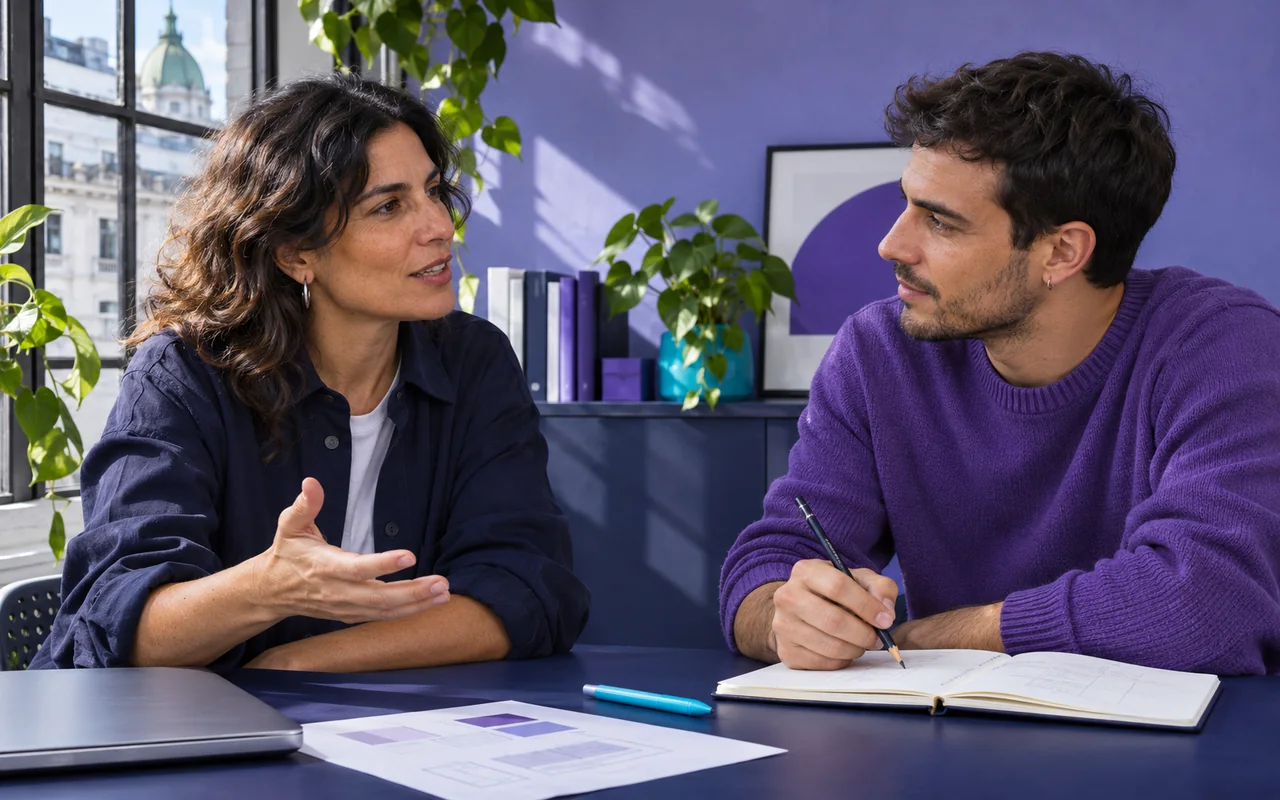
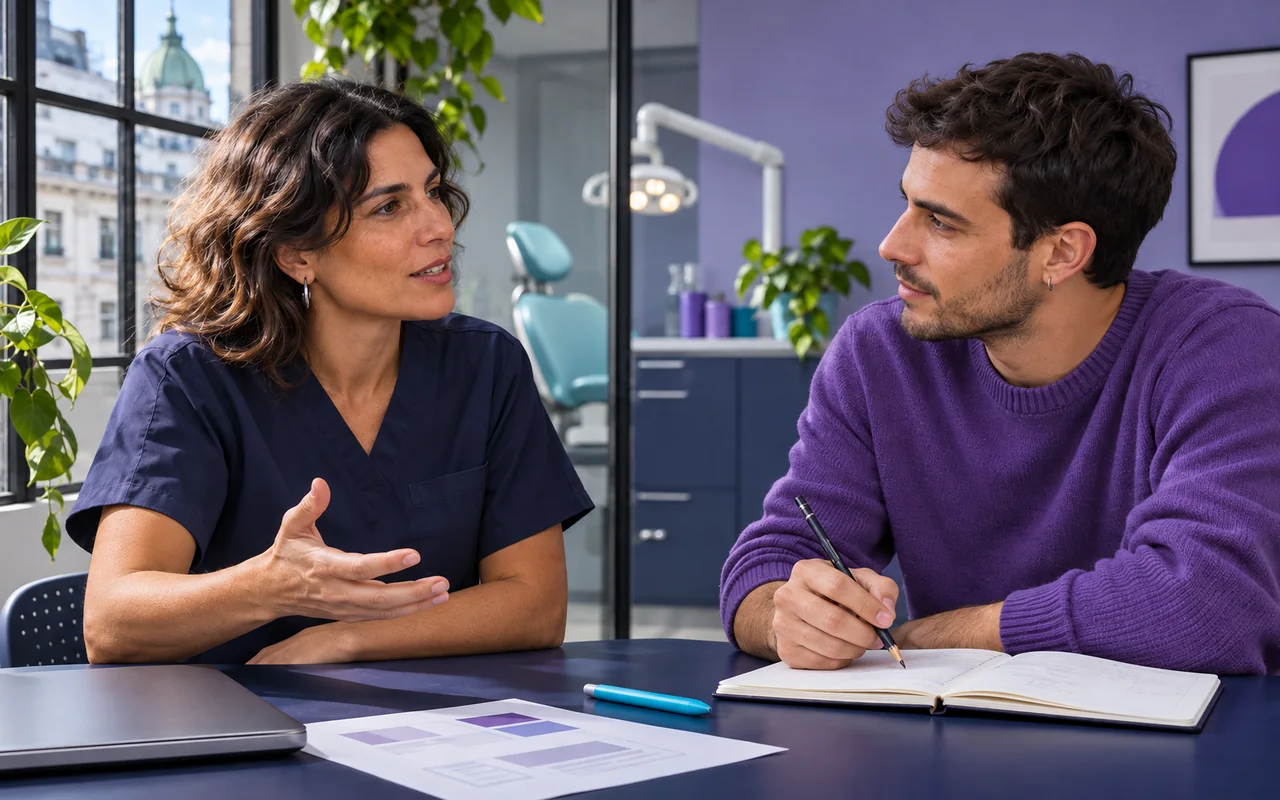
Mostrar el diseño de una web profesional con Larregina Odontología

diff --git a/site/servicios/diseno-web/index.html b/site/servicios/diseno-web/index.html
@@ -59,56 +59,56 @@
 <div class="wrap">
 <header class="process-story-heading">
 <div><p class="eyebrow">ASÍ TRABAJAMOS CON VOS</p><h2 id="process-title">Así hacemos<br class="process-title-break"> tu sitio.<br><em>Paso a paso.</em></h2></div>
-<p>Abrí cada paso para ver cómo lo hacemos.</p>
+<p>Abrí cada paso y seguí el ejemplo de Larregina Odontología.</p>
 </header>
 <ol class="process-story-grid" role="list">
 <li class="process-chapter">
 <details class="process-step" name="web-process" open>
-<summary><span class="process-chapter-number" aria-hidden="true">01</span><span class="process-step-copy"><strong>Nos contás qué necesitás.</strong><span>Tu negocio, tu público y el objetivo de la web.</span></span><span class="process-step-toggle" aria-hidden="true"><svg viewBox="0 0 24 24"><path d="M5 12h14"/><path class="process-toggle-vertical" d="M12 5v14"/></svg></span></summary>
+<summary><span class="process-chapter-number" aria-hidden="true">01</span><span class="process-step-copy"><strong>Nos contás qué necesitás.</strong><span>Hablamos de tus servicios y de las dudas de quienes te consultan.</span></span><span class="process-step-toggle" aria-hidden="true"><svg viewBox="0 0 24 24"><path d="M5 12h14"/><path class="process-toggle-vertical" d="M12 5v14"/></svg></span></summary>
 <figure class="process-step-body">
-<img class="process-photo" src="/assets/proceso-web/conversacion-800.webp"
-     srcset="/assets/proceso-web/conversacion-480.webp 480w, /assets/proceso-web/conversacion-800.webp 800w, /assets/proceso-web/conversacion-1280.webp 1280w"
+<img class="process-photo" src="/assets/proceso-web/conversacion-800.webp?v=larregina-1"
+     srcset="/assets/proceso-web/conversacion-480.webp?v=larregina-1 480w, /assets/proceso-web/conversacion-800.webp?v=larregina-1 800w, /assets/proceso-web/conversacion-1280.webp?v=larregina-1 1280w"
      sizes="auto, (max-width: 767px) 100vw, (max-width: 1000px) 95vw, (max-width: 1296px) 53vw, 682px" width="1280" height="800"
-     loading="lazy" decoding="async" alt="Una clienta cuenta qué busca para su web mientras el diseñador escucha y toma notas.">
-<figcaption class="process-question">Cuando alguien entra a tu web, ¿querés que reserve un turno, te pida un presupuesto o compre?</figcaption>
+     loading="lazy" decoding="async" alt="Una odontóloga conversa con el diseñador sobre la web del consultorio mientras él toma notas.">
+<figcaption class="process-question">¿Qué necesita saber un paciente antes de pedir su primer turno?</figcaption>
 </figure>
 </details>
 </li>
 <li class="process-chapter">
 <details class="process-step" name="web-process">
-<summary><span class="process-chapter-number" aria-hidden="true">02</span><span class="process-step-copy"><strong>Definimos la propuesta.</strong><span>Páginas, funciones, inversión y plazos acordados.</span></span><span class="process-step-toggle" aria-hidden="true"><svg viewBox="0 0 24 24"><path d="M5 12h14"/><path class="process-toggle-vertical" d="M12 5v14"/></svg></span></summary>
+<summary><span class="process-chapter-number" aria-hidden="true">02</span><span class="process-step-copy"><strong>Definimos la propuesta.</strong><span>Elegimos qué páginas necesita tu web y acordamos la inversión y los plazos.</span></span><span class="process-step-toggle" aria-hidden="true"><svg viewBox="0 0 24 24"><path d="M5 12h14"/><path class="process-toggle-vertical" d="M12 5v14"/></svg></span></summary>
 <div class="process-step-body">
-<img class="process-photo" src="/assets/proceso-web/propuesta-800.webp"
-     srcset="/assets/proceso-web/propuesta-480.webp 480w, /assets/proceso-web/propuesta-800.webp 800w, /assets/proceso-web/propuesta-1280.webp 1280w"
+<img class="process-photo" src="/assets/proceso-web/propuesta-800.webp?v=larregina-1"
+     srcset="/assets/proceso-web/propuesta-480.webp?v=larregina-1 480w, /assets/proceso-web/propuesta-800.webp?v=larregina-1 800w, /assets/proceso-web/propuesta-1280.webp?v=larregina-1 1280w"
      sizes="auto, (max-width: 767px) 100vw, (max-width: 1000px) 95vw, (max-width: 1296px) 53vw, 682px" width="1280" height="800"
-     loading="lazy" decoding="async" alt="Una propuesta abierta detalla páginas y funciones, inversión y plazos junto a un mapa del sitio.">
+     loading="lazy" decoding="async" alt="La propuesta incluye las páginas «Tratamientos», «La doctora» y «Contacto».">
 </div>
 </details>
 </li>
 <li class="process-chapter">
 <details class="process-step" name="web-process">
-<summary><span class="process-chapter-number" aria-hidden="true">03</span><span class="process-step-copy"><strong>Ves tu web. La ajustamos.</strong><span>Diseño y contenido que revisamos con vos.</span></span><span class="process-step-toggle" aria-hidden="true"><svg viewBox="0 0 24 24"><path d="M5 12h14"/><path class="process-toggle-vertical" d="M12 5v14"/></svg></span></summary>
+<summary><span class="process-chapter-number" aria-hidden="true">03</span><span class="process-step-copy"><strong>Ves tu web. La ajustamos.</strong><span>Probás la web y ajustamos dónde aparece el botón «Solicitar turno».</span></span><span class="process-step-toggle" aria-hidden="true"><svg viewBox="0 0 24 24"><path d="M5 12h14"/><path class="process-toggle-vertical" d="M12 5v14"/></svg></span></summary>
 <div class="process-step-body">
-<img class="process-photo" src="/assets/proceso-web/revision-800.webp?v=2"
-     srcset="/assets/proceso-web/revision-480.webp?v=2 480w, /assets/proceso-web/revision-800.webp?v=2 800w, /assets/proceso-web/revision-1280.webp?v=2 1280w"
+<img class="process-photo" src="/assets/proceso-web/revision-800.webp?v=larregina-1"
+     srcset="/assets/proceso-web/revision-480.webp?v=larregina-1 480w, /assets/proceso-web/revision-800.webp?v=larregina-1 800w, /assets/proceso-web/revision-1280.webp?v=larregina-1 1280w"
      sizes="auto, (max-width: 767px) 100vw, (max-width: 1000px) 95vw, (max-width: 1296px) 53vw, 682px" width="1280" height="800"
-     loading="lazy" decoding="async" alt="Primer plano del botón «Ver tóners» de ERCAS marcado en violeta, junto a la nota «Destacar el botón».">
+     loading="lazy" decoding="async" alt="El botón «Solicitar turno» de Larregina marcado en violeta junto a la nota «Destacar turnos».">
 </div>
 </details>
 </li>
 <li class="process-chapter">
 <details class="process-step" name="web-process">
-<summary><span class="process-chapter-number" aria-hidden="true">04</span><span class="process-step-copy"><strong>La ponemos online.</strong><span>Pruebas en celular y computadora, y tu aprobación.</span></span><span class="process-step-toggle" aria-hidden="true"><svg viewBox="0 0 24 24"><path d="M5 12h14"/><path class="process-toggle-vertical" d="M12 5v14"/></svg></span></summary>
+<summary><span class="process-chapter-number" aria-hidden="true">04</span><span class="process-step-copy"><strong>La ponemos online.</strong><span>Probamos el acceso a WhatsApp en celular y computadora. Con tu aprobación, publicamos.</span></span><span class="process-step-toggle" aria-hidden="true"><svg viewBox="0 0 24 24"><path d="M5 12h14"/><path class="process-toggle-vertical" d="M12 5v14"/></svg></span></summary>
 <div class="process-step-body">
-<img class="process-photo" src="/assets/proceso-web/publicacion-800.webp"
-     srcset="/assets/proceso-web/publicacion-480.webp 480w, /assets/proceso-web/publicacion-800.webp 800w, /assets/proceso-web/publicacion-1280.webp 1280w"
+<img class="process-photo" src="/assets/proceso-web/publicacion-800.webp?v=larregina-1"
+     srcset="/assets/proceso-web/publicacion-480.webp?v=larregina-1 480w, /assets/proceso-web/publicacion-800.webp?v=larregina-1 800w, /assets/proceso-web/publicacion-1280.webp?v=larregina-1 1280w"
      sizes="auto, (max-width: 767px) 100vw, (max-width: 1000px) 95vw, (max-width: 1296px) 53vw, 682px" width="1280" height="800"
-     loading="lazy" decoding="async" alt="La tienda ERCAS en una computadora y un celular durante la revisión previa a publicar.">
+     loading="lazy" decoding="async" alt="La portada de Larregina en la computadora y la página de ortodoncia invisible en el celular.">
 </div>
 </details>
 </li>
 </ol>
-<footer class="process-story-footer"><p>Después de publicar, acordamos el seguimiento y las mejoras que necesite tu proyecto.</p><span>Escenas ilustrativas · Capturas de ERCAS</span></footer>
+<footer class="process-story-footer"><p>Después de publicar, acordamos el seguimiento y las mejoras que necesite tu proyecto.</p><span>Escenas ilustrativas · Capturas de Larregina Odontología</span></footer>
 </div>
 </section>
 <section class="service-banner service-seo web-growth" id="visibilidad" aria-labelledby="growth-title"><div class="wrap service-banner-inner"><div class="service-banner-copy"><p class="eyebrow">EL SIGUIENTE PASO: QUE LLEGUEN A TU WEB</p><h2 id="growth-title">Tu web profesional<br> <em>para que más gente te encuentre.</em></h2><p>Conectamos el diseño con el posicionamiento y la publicidad. Elegimos los canales según tu público, tu mercado y lo que querés lograr.</p>
